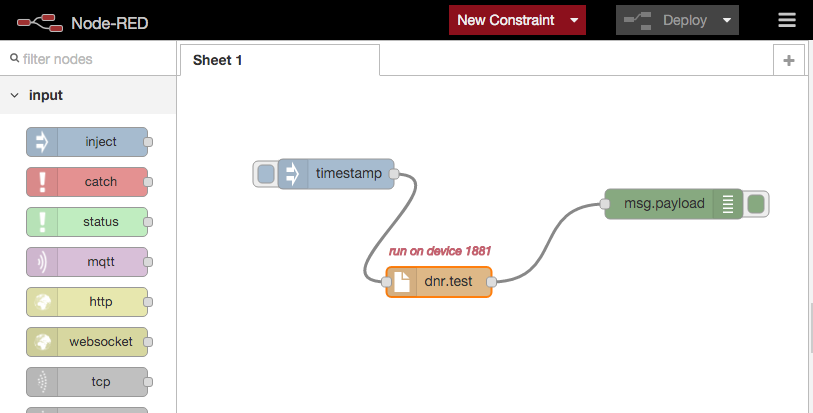
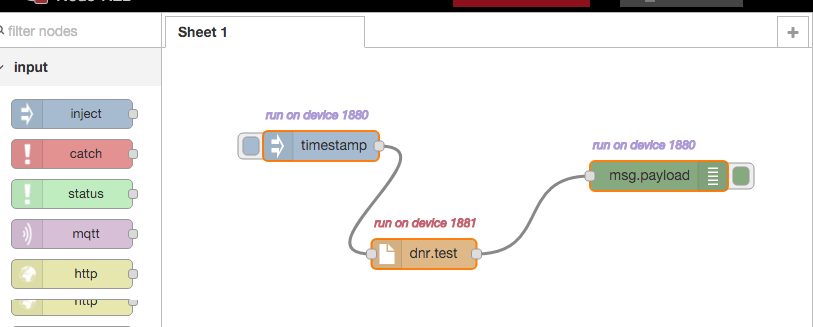
fix constraints parsing

diff --git a/red/nodes/dnr.js b/red/nodes/dnr.js
@@ -37,10 +37,18 @@ function process(nodeConfig){
 
 function satisfyConstraints(constraints){
 	// TODO: implement this logic!
-	if (constraints.deviceId){
-		if (constraints.deviceId === settings.deviceId)
-			return true;
-	}
+  for (c in constraints){
+    if (!constraints.hasOwnProperty(c))
+      continue;
+
+    c = constraints[c];
+
+  	if (c.deviceId){
+  		if (c.deviceId === settings.deviceId)
+  			return true;
+  	}
+    
+  }
 	return false;
 }
 

diff --git a/settings.js b/settings.js
@@ -20,7 +20,7 @@
 
 module.exports = {
     // this device
-    deviceId: 1880,
+    deviceId: "1880",
     
     // the tcp port that the Node-RED web server is listening on
     uiPort: 1880,

diff --git a/README.md b/README.md
@@ -49,7 +49,7 @@ Start node-red-1880. Go to the editor at <http://localhost:1880> and select Impo
 
 ```json
 [{
-    "id": "f1638095.0e9c8",
+    "id": "d707b1e0.28f85",
     "type": "inject",
     "z": "ad35591f.52caa8",
     "name": "",
@@ -59,23 +59,30 @@ Start node-red-1880. Go to the editor at <http://localhost:1880> and select Impo
     "repeat": "",
     "crontab": "",
     "once": false,
-    "x": 143,
-    "y": 84,
+    "x": 159,
+    "y": 98,
     "wires": [
-        ["2446251.fdbb9da"]
+        ["6e701f2e.918fe"]
     ],
-    "constraints": {}
+    "constraints": {
+        "run on device 1880": {
+            "id": "run on device 1880",
+            "deviceId": "1880",
+            "fill": "#ad98d6",
+            "text": "run on device 1880"
+        }
+    }
 }, {
-    "id": "2446251.fdbb9da",
+    "id": "6e701f2e.918fe",
     "type": "file in",
     "z": "ad35591f.52caa8",
     "name": "",
     "filename": "dnr.test",
     "format": "utf8",
-    "x": 246,
-    "y": 192,
+    "x": 262,
+    "y": 206,
     "wires": [
-        ["cfae26fe.3051d8"]
+        ["4f480e35.b0b7f"]
     ],
     "constraints": {
         "run on device 1881": {
@@ -86,17 +93,24 @@ Start node-red-1880. Go to the editor at <http://localhost:1880> and select Impo
         }
     }
 }, {
-    "id": "cfae26fe.3051d8",
+    "id": "4f480e35.b0b7f",
     "type": "debug",
     "z": "ad35591f.52caa8",
     "name": "",
     "active": true,
     "console": "false",
     "complete": "false",
-    "x": 481,
-    "y": 114,
+    "x": 497,
+    "y": 128,
     "wires": [],
-    "constraints": {}
+    "constraints": {
+        "run on device 1880": {
+            "id": "run on device 1880",
+            "deviceId": "1880",
+            "fill": "#ad98d6",
+            "text": "run on device 1880"
+        }
+    }
 }]
 ```
 
@@ -112,14 +126,6 @@ cd ..
 cd node-red-1881
 node red
 ```
-
-Go to <http://localhost:1881>
-
-Modify the flow in device 1881:
-* delete the "run on device 1881" constraint on the File In node by clicking on the constraint
-* create a new constraint by clicking "New Constraint", put in "run on device 1880" on the Constraint Id, 1880 on the deviceId box. Click ok.
-* select the Debug and Inject nodes and apply the newly created constraint by clicking on it in the drop down menu next to the New Constraint button. Click on a blank space in the editor to refresh the view.
-* click on Deploy button
 
 Now test triggering the Inject node.
 * trigger the Inject nodes in either <http://localhost:1880> or <http://localhost:1881>, "1881" shows up on the Debug console
